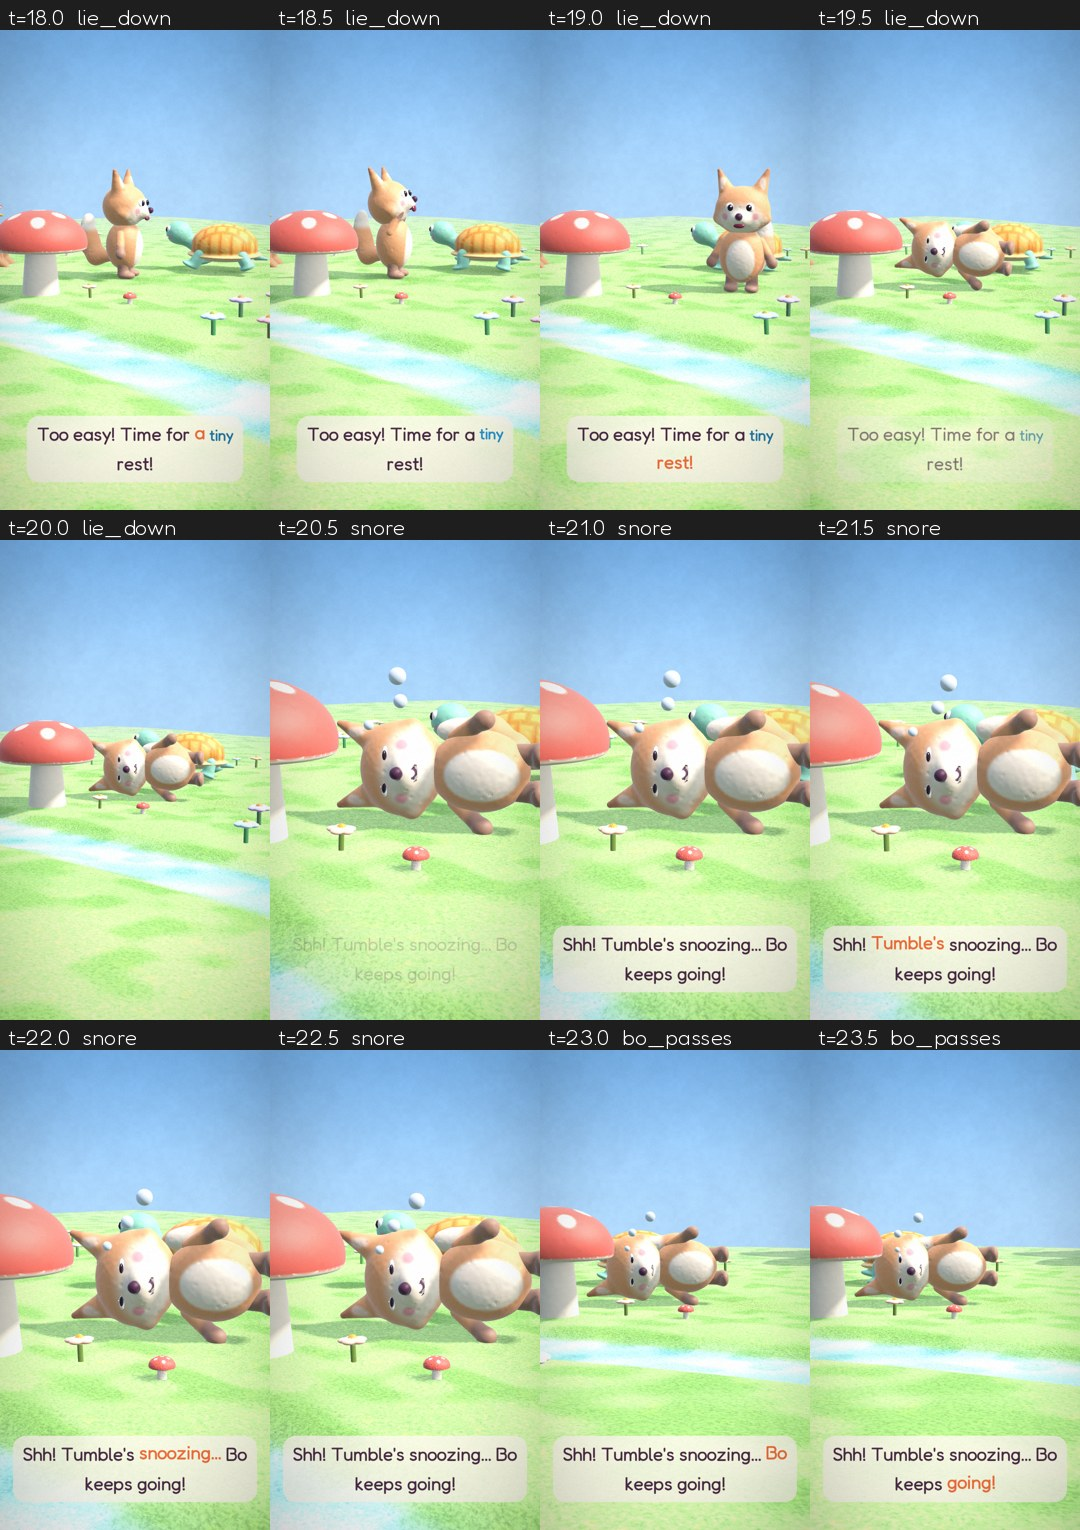
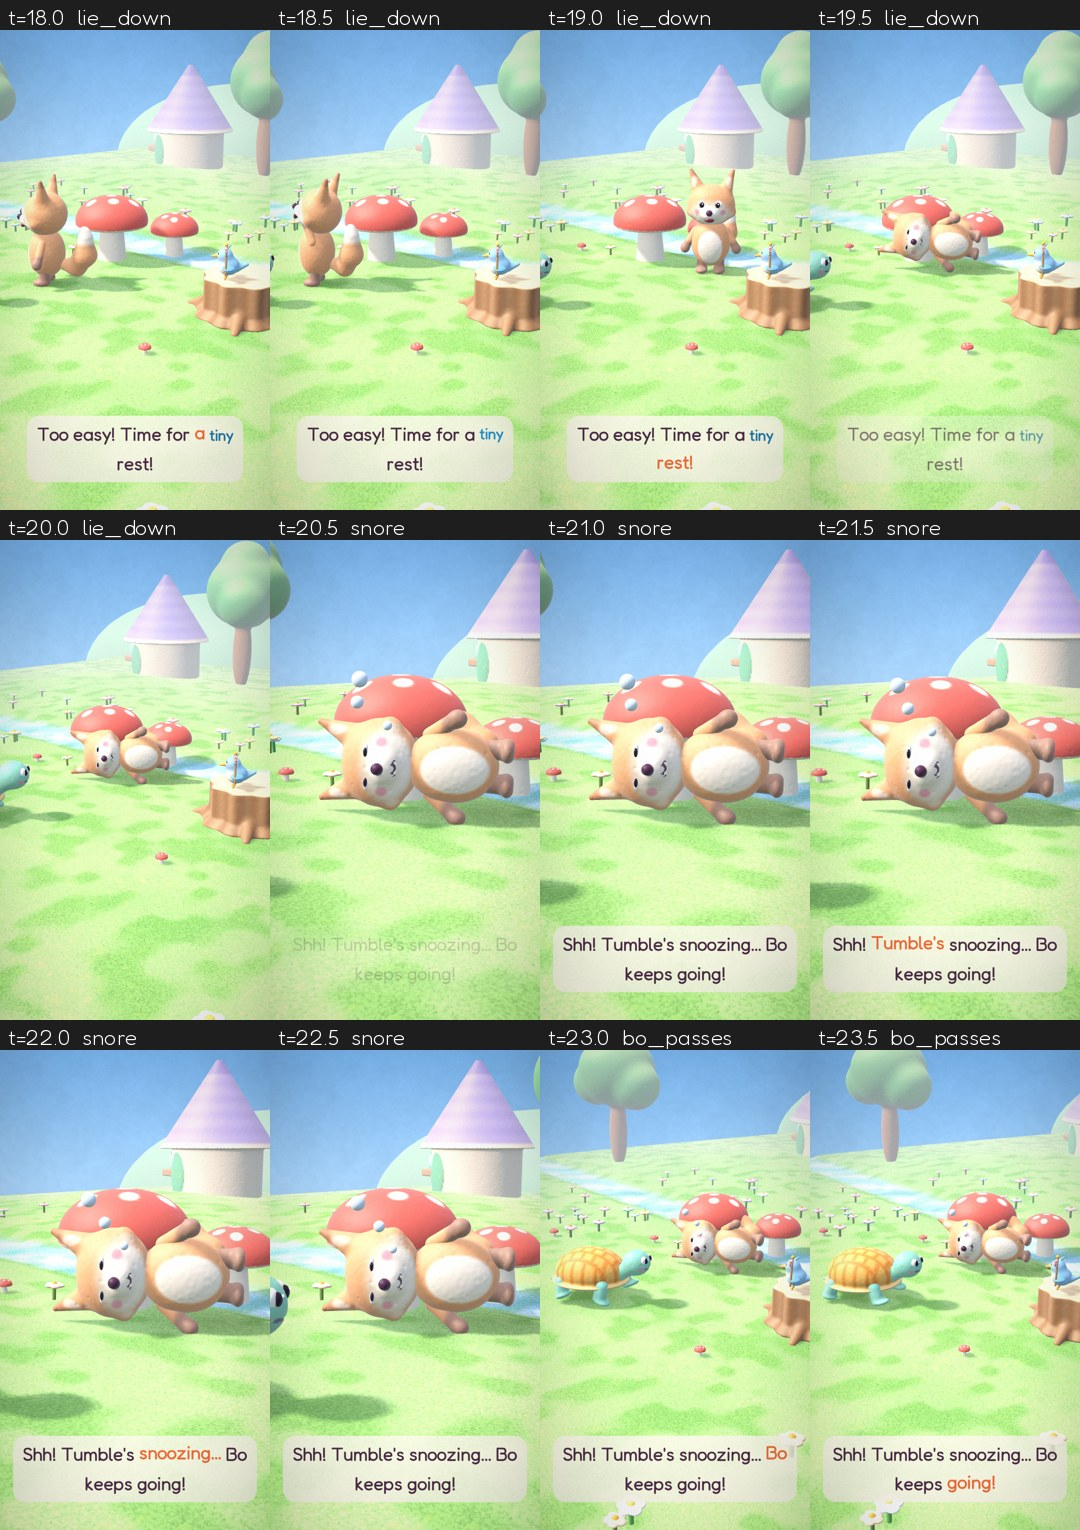
Fable 4: restage nap under the mushroom, new sleeper cameras
Claude-Session: https://claude.ai/code/session_014V3fxhp9FCSDpE2UtNdN7a

diff --git a/batches/01-fables-friendship/fable-04-slow-and-steady-bo/code/render.py b/batches/01-fables-friendship/fable-04-slow-and-steady-bo/code/render.py
@@ -33,7 +33,7 @@ BO_S = 1.15
 STUMP_S = 1.3; STUMP = C(9.95, 0.55); STUMP_TOP = 0.55 * STUMP_S - 0.02; STUMP_ROT = 1.2
 S_TOUCH = 7.94                                               # Bo's nose on the stump
 RUN_S = 6.0                                                  # where Tumble skids to a stop
-NAP = C(4.3, -1.8); NAP_YAW = math.atan2(-NRM[0], -NRM[1])   # lying on his side, back to the course, head towards the finish
+NAP = C(8.4, -1.9); NAP_YAW = math.atan2(NRM[0], NRM[1])   # lying on his side, face to the course-side cameras, head up-course under the mushroom, head towards the finish
 MUSH1 = C(6.95, -2.85); MUSH1_S = 1.5                        # the giant mushroom his snores puff
 MUSH2 = C(8.3, -3.8); MUSH2_S = 1.05
 PEB = C(0.25, -2.0)                                          # Pip's referee pebble
@@ -295,6 +295,7 @@ def flag_M(t, pip):
 
 # ---------------- camera ----------------
 def yaw_of(v): return math.degrees(math.atan2(v[0], v[1]))
+SG = 1
 def camera(t):
     i, name, u, lt = T.shot_at(t); e = ease(u)
     st = tumble(t); b = bo(t)
@@ -315,13 +316,13 @@ def camera(t):
         return fit_cam(np.array([p[0], 1.0, p[1]]), yaw_of(DIR) - 28, 7, 2.2, 1.6, lift=0.05)
     if name == "lie_down":                                   # medium, from the far side of the course
         c = (C(RUN_S, LANE_T) + NAP) / 2 + DIR * 0.5
-        return fit_cam(np.array([c[0], 1.0, c[1]]), yaw_of(-NRM) + lerp(14, 8, e), 8, 2.6, 1.9)
+        return fit_cam(np.array([c[0], 1.0, c[1]]), yaw_of(NRM) + SG * lerp(8, 4, e), 16, 2.8 if not WIDE else 3.2, 2.0)
     if name == "snore":                                      # close on the snoring face and the mushroom
-        hd = NAP + DIR * 1.45
-        return fit_cam(np.array([hd[0], 0.85, hd[1]]), yaw_of(-NRM) + lerp(16, 10, e), 10, 1.4, 1.1)
+        hd = NAP - DIR * 1.2
+        return fit_cam(np.array([hd[0], 0.85, hd[1]]), yaw_of(NRM) + SG * lerp(12, 6, e), 12, 1.5, 1.1)
     if name == "bo_passes":                                  # low wide from behind the sleeper: Bo plods past beyond him
-        c = NAP + DIR * 0.7 + NRM * 0.9
-        return fit_cam(np.array([c[0], 0.75, c[1]]), yaw_of(-NRM) + lerp(-8, 2, e), 7, 2.3, 1.5)
+        c = (NAP - DIR * 0.3 + b["p"]) / 2
+        return fit_cam(np.array([c[0], 0.7, c[1]]), yaw_of(NRM) + SG * lerp(20, 30, e), 20, 2.9 if not WIDE else 3.6, 2.0)
     if name == "bo_near":                                    # low angle at the stump: Pip with the flag, Bo coming
         c = (STUMP + b["p"]) / 2 + NRM * 0.1
         return fit_cam(np.array([c[0], 0.95, c[1]]), yaw_of(-DIR) + 50, -4, 2.2, 1.4, lift=0.06)
